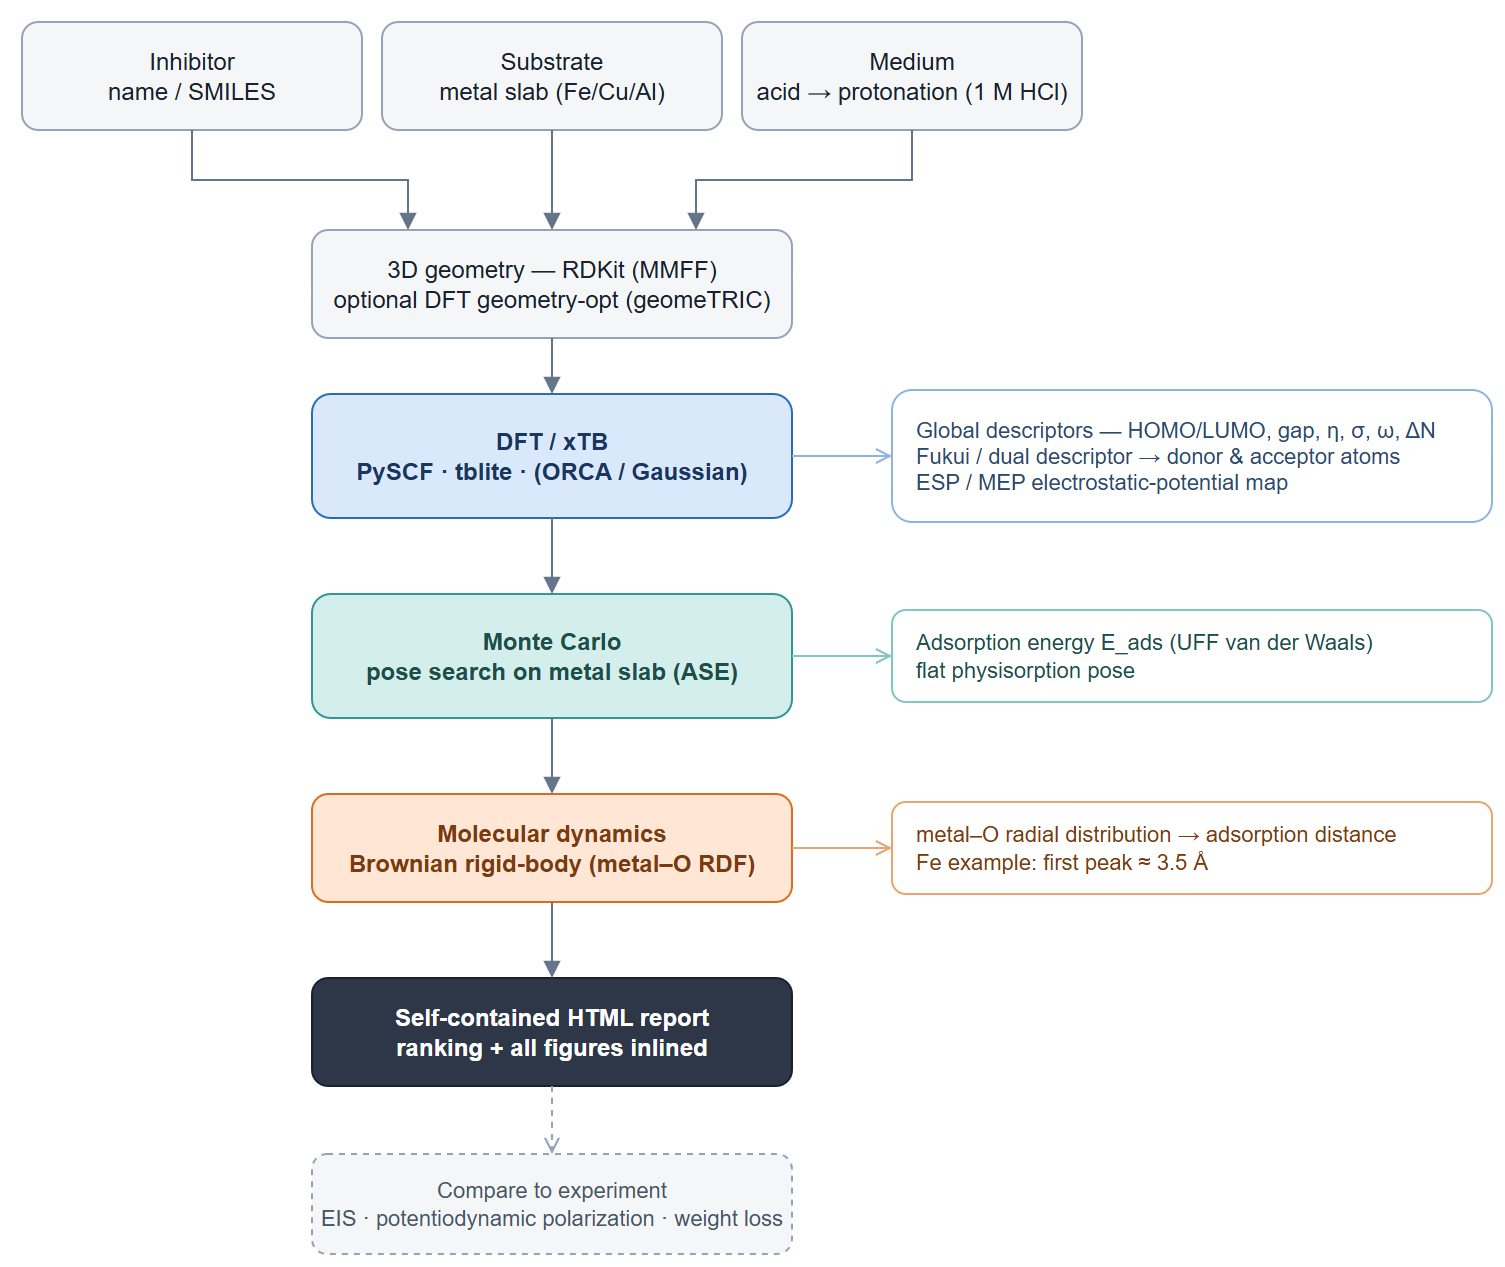
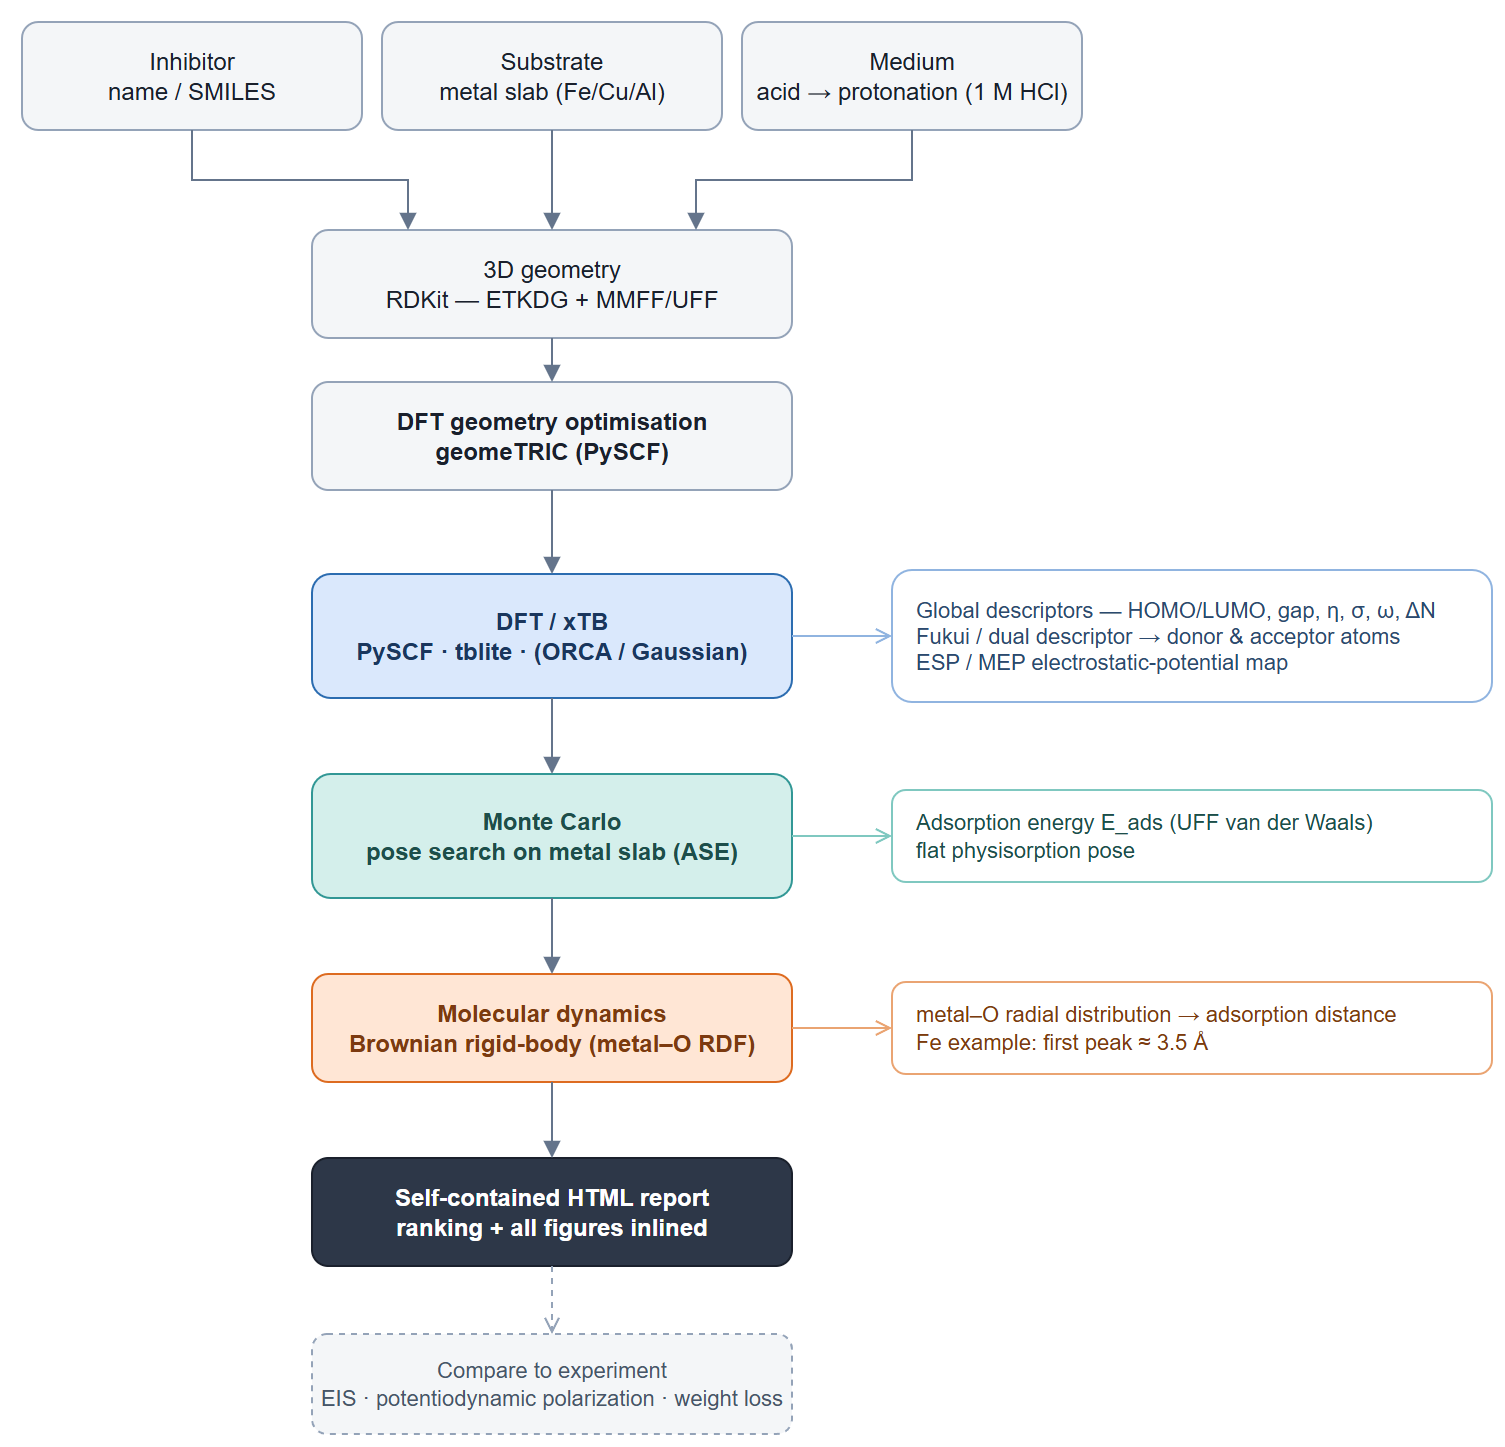
docs(pipeline): split DFT geometry optimisation into its own step
Give geometry optimisation its own box in the diagram (between 3D
geometry and the DFT descriptors) and its own section in pipeline.md, so
the five text steps and the five diagram boxes line up. Standardise on
"optimisation" over "relaxation" throughout, matching the code
(optimize_geometry, --optimize) and the QM literature. Re-export the
diagram to both PNG destinations.

diff --git a/docs/pipeline.md b/docs/pipeline.md
@@ -47,10 +47,10 @@ zooming from the lone molecule to the molecule sitting on metal:
 
 - **3D geometry** — turn the input (a name or SMILES string) into a rough 3D
   structure. Runs once per molecule; independent of the metal and the medium.
-- **DFT relaxation** — refine that rough structure into a trustworthy
+- **DFT geometry optimisation** — refine that rough structure into a trustworthy
   quantum-mechanical minimum before anything is measured on it.
 - **DFT — reactivity descriptors** — read the molecule's *global* and *local*
-  reactivity from the relaxed structure: *what kind of molecule is this?*
+  reactivity from the optimised structure: *what kind of molecule is this?*
 - **Monte Carlo** — *how does it like to sit on the metal?* Try many poses, keep
   the best.
 - **Molecular dynamics** — *how tightly does it hold on?* Let it jiggle at room
@@ -67,7 +67,7 @@ surface, the better it fights corrosion.
 **In plain terms.** Everything downstream needs a concrete 3D shape to act on, so
 corrosim first builds one: it adds the hydrogen atoms, generates 3D coordinates
 (RDKit's ETKDG distance-geometry method), and tidies them with a quick
-**force-field** relaxation (MMFF, falling back to UFF). The result is a sensible
+**force-field** optimisation (MMFF, falling back to UFF). The result is a sensible
 *starting* geometry — cheap, classical, and approximate, not the final word. It
 runs once per molecule and depends on neither the metal nor the medium. The
 acid-protonated form (the extra-H⁺ cation) is built the same way.
@@ -75,11 +75,11 @@ acid-protonated form (the extra-H⁺ cation) is built the same way.
 Implemented in `corrosim/molecules.py` (`build_molecule`, `build_protonated`).
 The trustworthy, publication-grade geometry comes from the next step.
 
-## DFT relaxation
+## DFT geometry optimisation
 
 **In plain terms.** The force-field shape is only a rough draft, so before we
-trust any number we **DFT-relax the geometry** — re-optimise it to a real
-quantum-mechanical minimum. Every descriptor below is read off this relaxed
+trust any number we **DFT-optimise the geometry** — re-optimise it to a real
+quantum-mechanical minimum. Every descriptor below is read off this optimised
 structure, which is why the geometry choice is checked for robustness
 (`run_dft --optimize`; the FF-vs-DFT comparison in `docs/validation.md`).
 Implemented via `corrosim/engines.py` (`optimize_geometry`, PySCF + geomeTRIC).
@@ -220,8 +220,8 @@ on software licences.
 
 | Step | Module | Entry points |
 |---|---|---|
-| 3D geometry | `corrosim/molecules.py` | `build_molecule`, `build_protonated` (SMILES → 3D → FF relax) |
-| DFT relaxation | `corrosim/engines.py` | `optimize_geometry` (PySCF + geomeTRIC) |
+| 3D geometry | `corrosim/molecules.py` | `build_molecule`, `build_protonated` (SMILES → 3D → FF optimise) |
+| DFT geometry optimisation | `corrosim/engines.py` | `optimize_geometry` (PySCF + geomeTRIC) |
 | DFT engines | `corrosim/engines.py` | `run_xtb`, `run_pyscf`, `run_orca`, `run_gaussian` |
 | DFT — global descriptors | `corrosim/descriptors.py` | `compute_descriptors` |
 | DFT — local descriptors | `corrosim/fukui.py`, `corrosim/figures.py` | `compute_fukui`; `write_density_esp_cubes`, `render_esp`, `render_orbital` |
